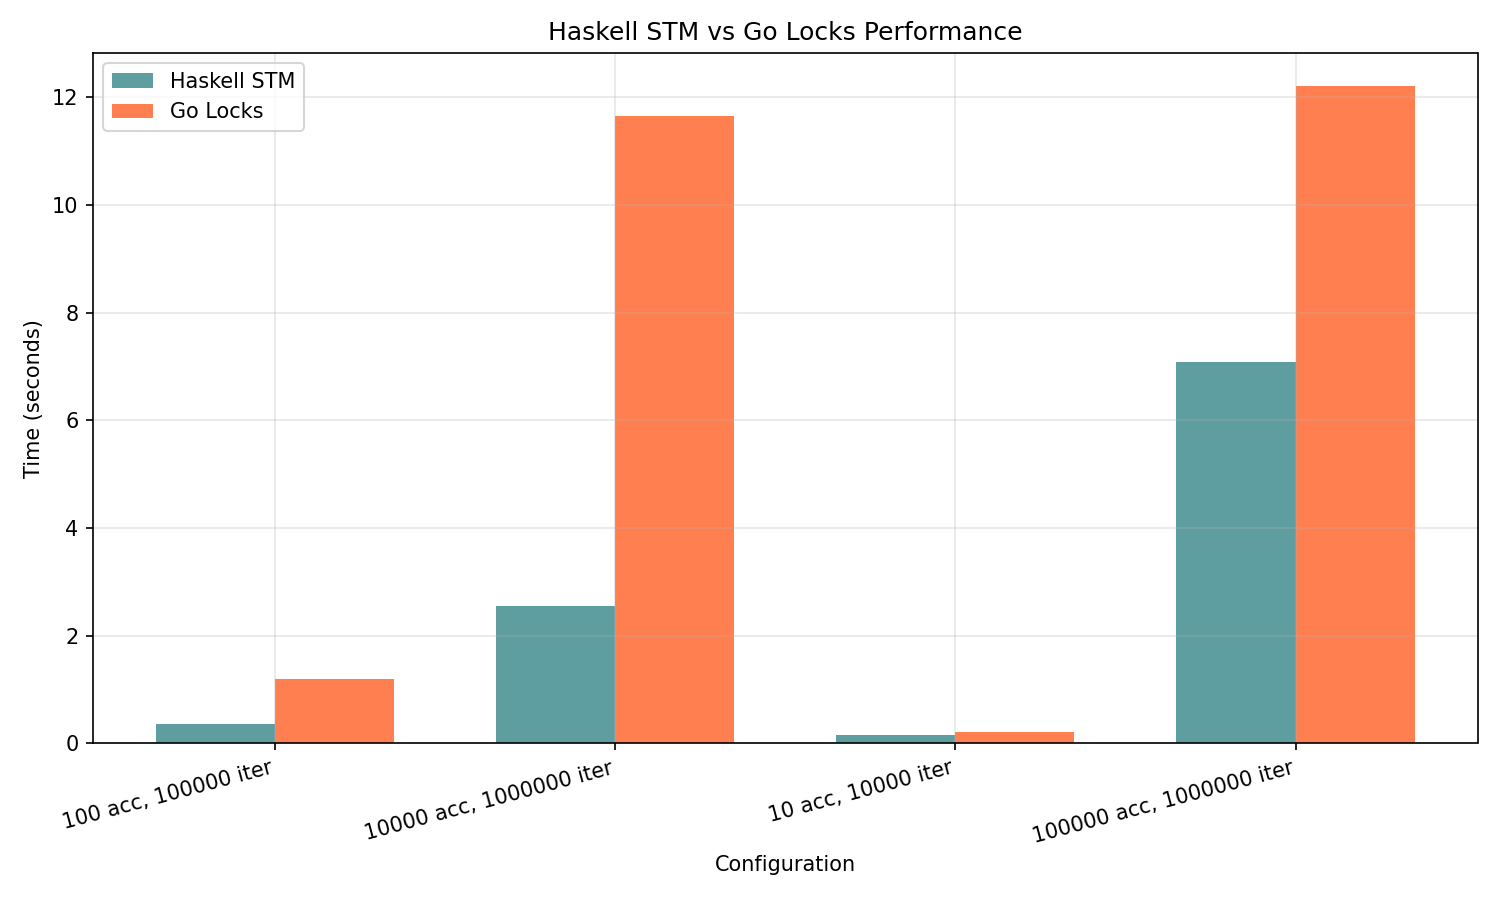
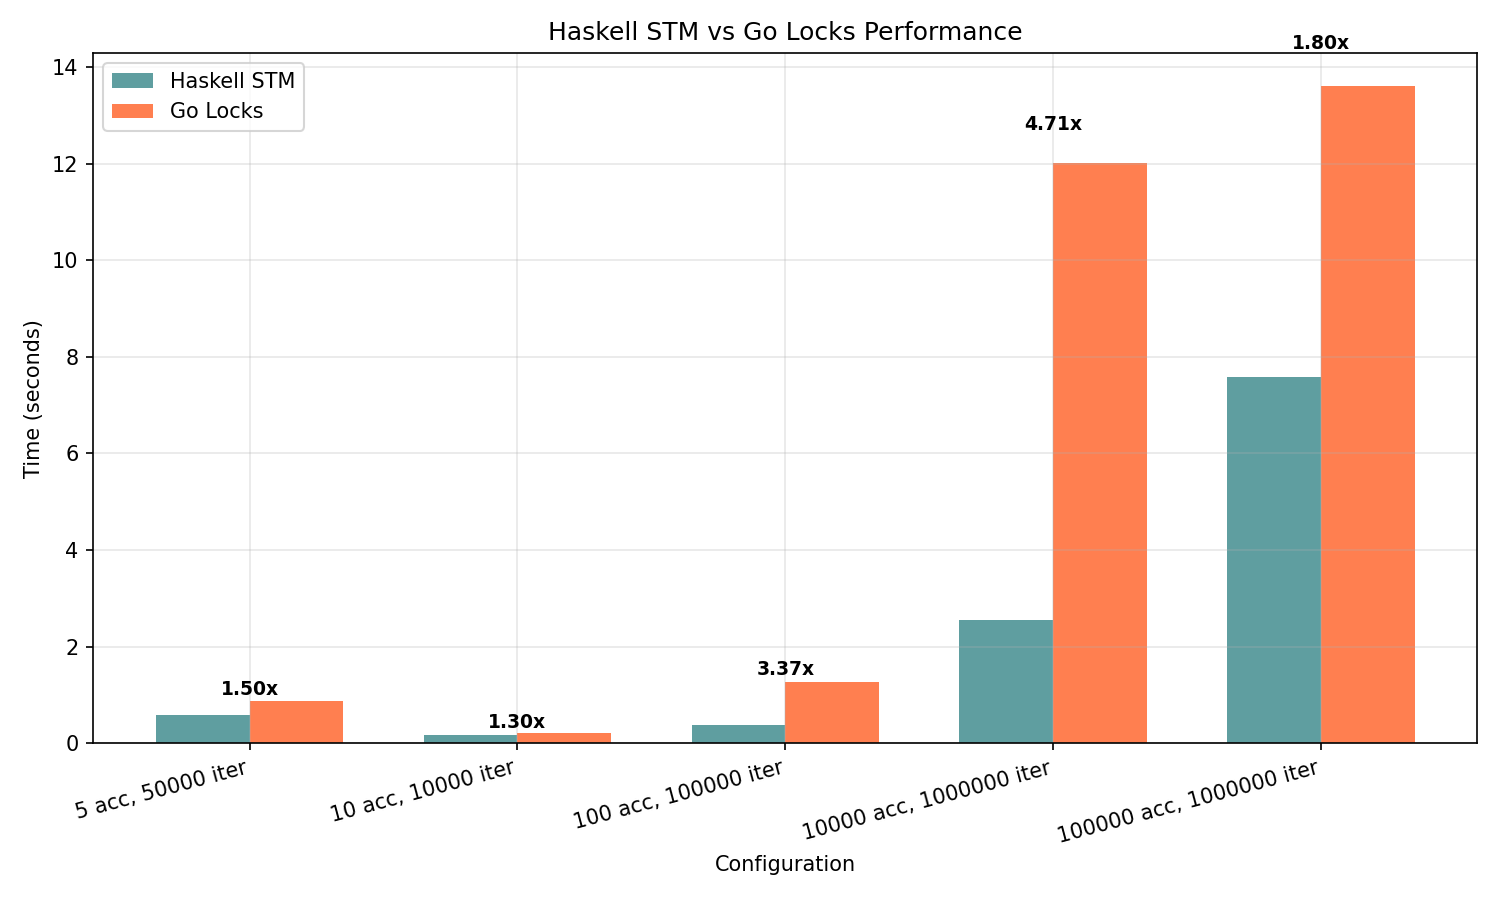
fix plot

diff --git a/06_Transcations/exercise/benchmark_accounts.py b/06_Transcations/exercise/benchmark_accounts.py
@@ -279,6 +279,7 @@ def main():
         labels = [f"{r['accounts']} acc, {r['iterations']} iter" for r in data]
         haskell_times = [float(r["haskell_time"]) for r in data]
         go_times = [float(r["go_time"]) for r in data]
+        speedups = [float(r["speedup"]) for r in data]
 
         fig, ax = plt.subplots(figsize=(10, 6))
         x = range(len(labels))
@@ -298,6 +299,19 @@ def main():
             label="Go Locks",
             color="#ff7f50",
         )
+
+        # Add speedup labels above bars
+        for i, (h_time, g_time, speedup) in enumerate(zip(haskell_times, go_times, speedups)):
+            max_time = max(h_time, g_time)
+            ax.text(
+                i,
+                max_time + max_time * 0.05,
+                f"{speedup:.2f}x",
+                ha="center",
+                va="bottom",
+                fontsize=9,
+                fontweight="bold",
+            )
 
         ax.set_xlabel("Configuration")
         ax.set_ylabel("Time (seconds)")
